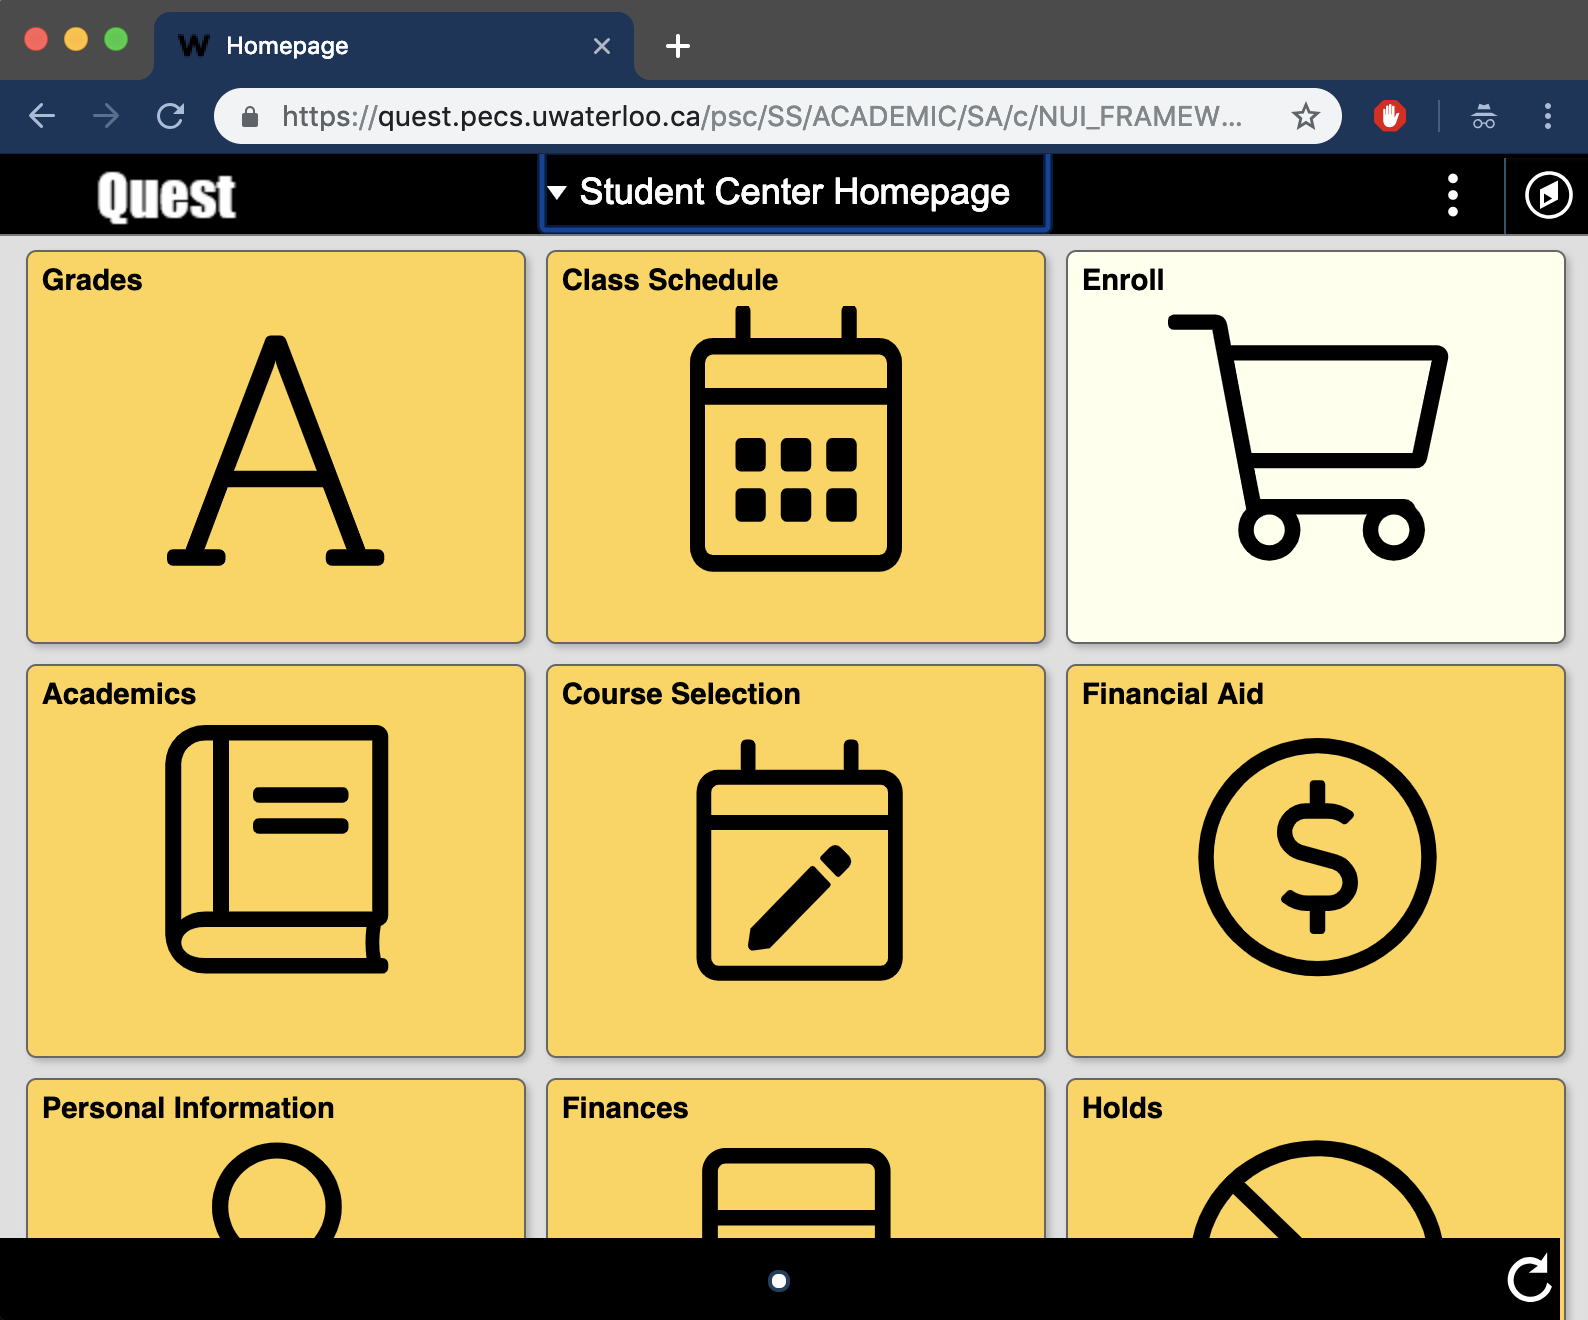
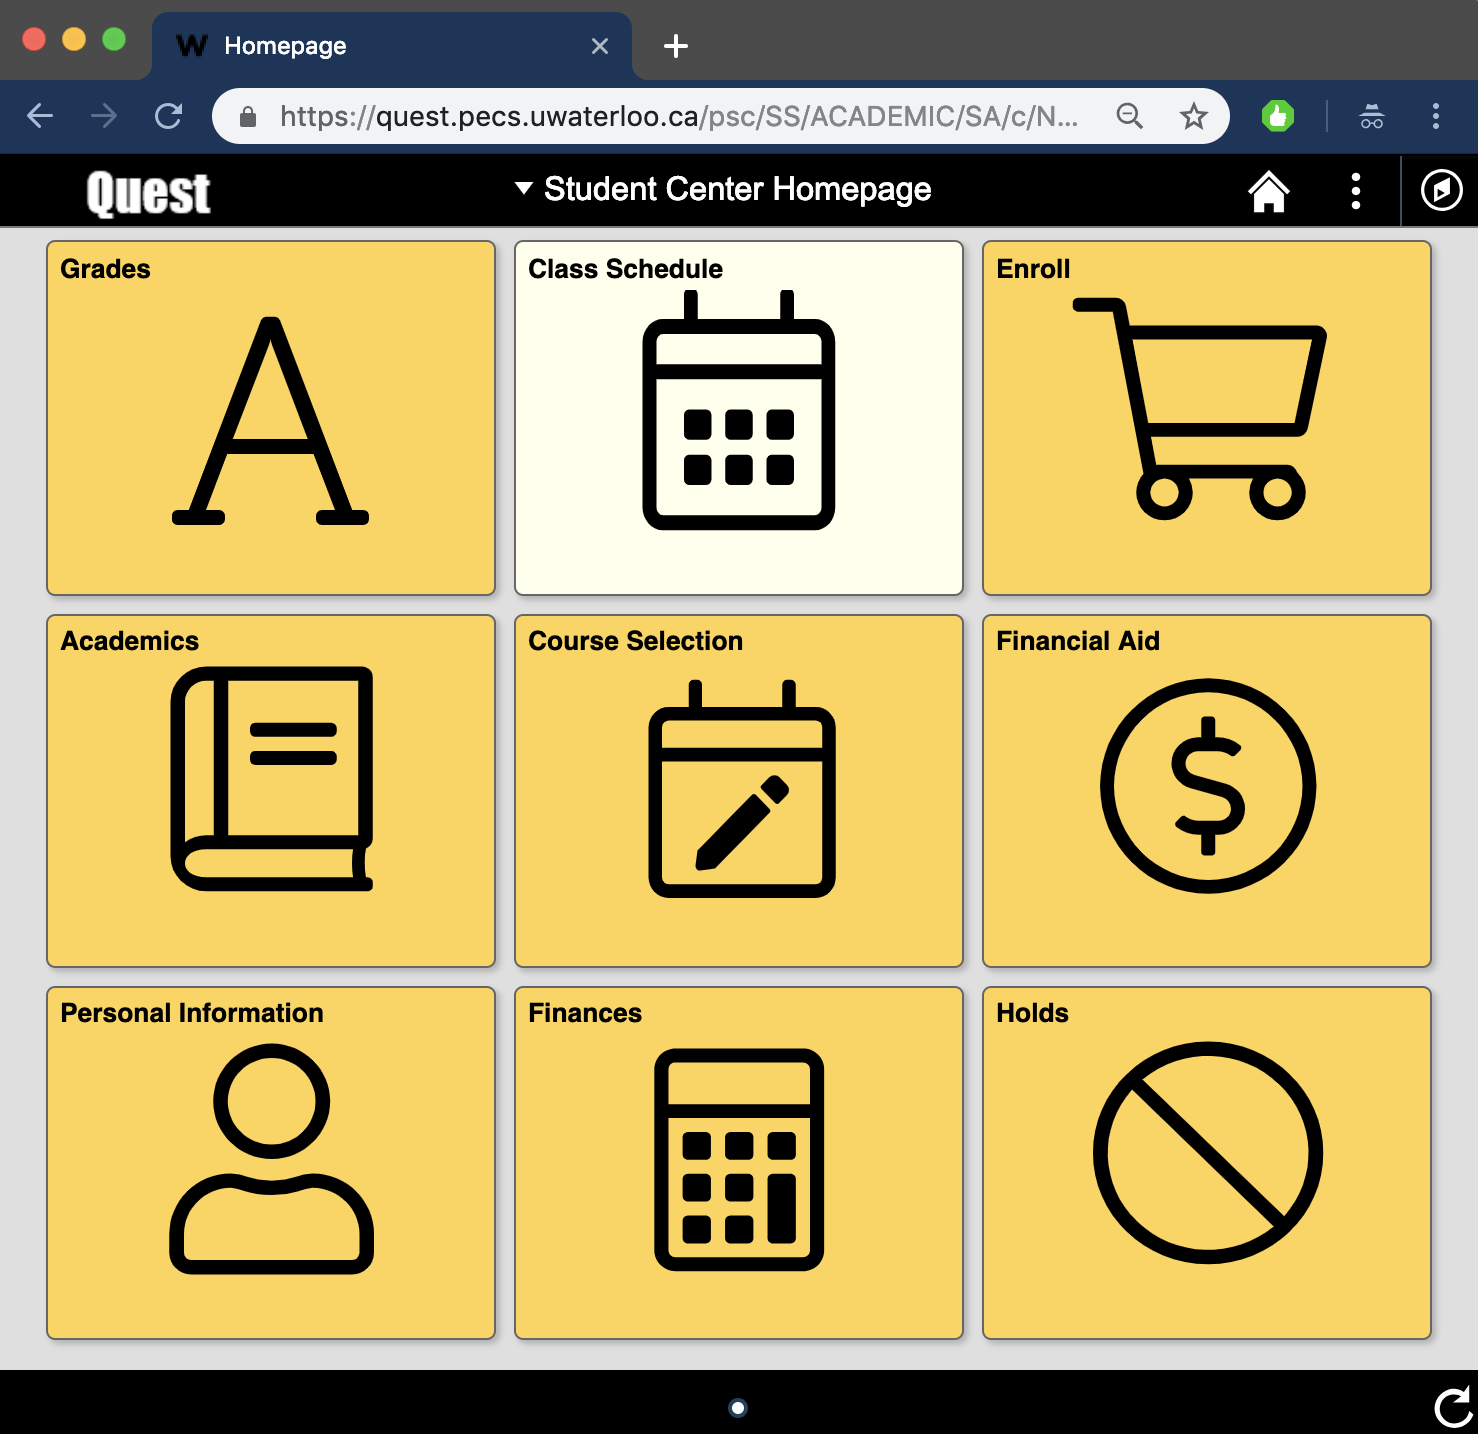
updated screenshots for transcript upload modal

diff --git a/server/templates/schedule.html b/server/templates/schedule.html
@@ -152,12 +152,12 @@
         <a href="https://quest.pecs.uwaterloo.ca/psp/SS/" target="_blank">
           Log in to Quest
         </a>
-        and click enroll.
+        and click "Class Schedule".
       </p>
       <img class="step-img" src="/static/img/import-schedule/step-1.png">
     </li>
     <li class="span4 step">
-      <p class="step-text lead">Select all and copy.</p>
+      <p class="step-text lead">Pick your term then select all and copy.</p>
       <img class="step-img" src="/static/img/import-schedule/step-2.png">
     </li>
     <li class="span4 step">
